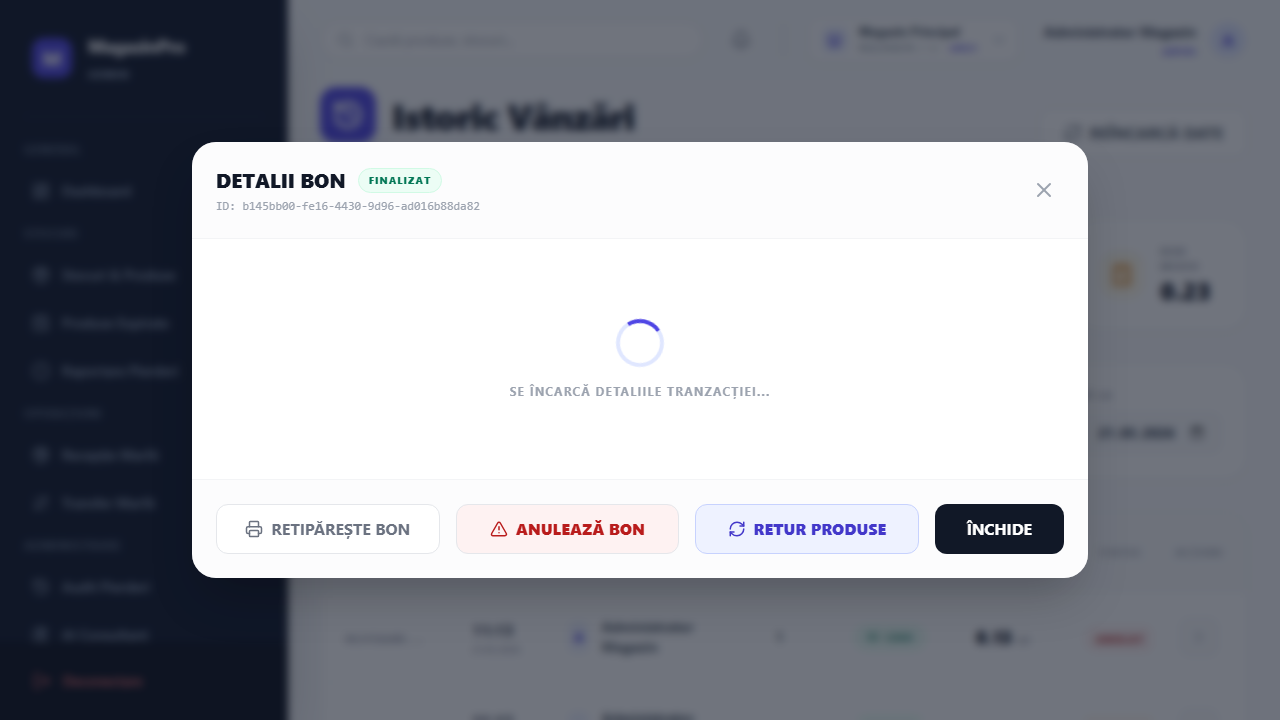
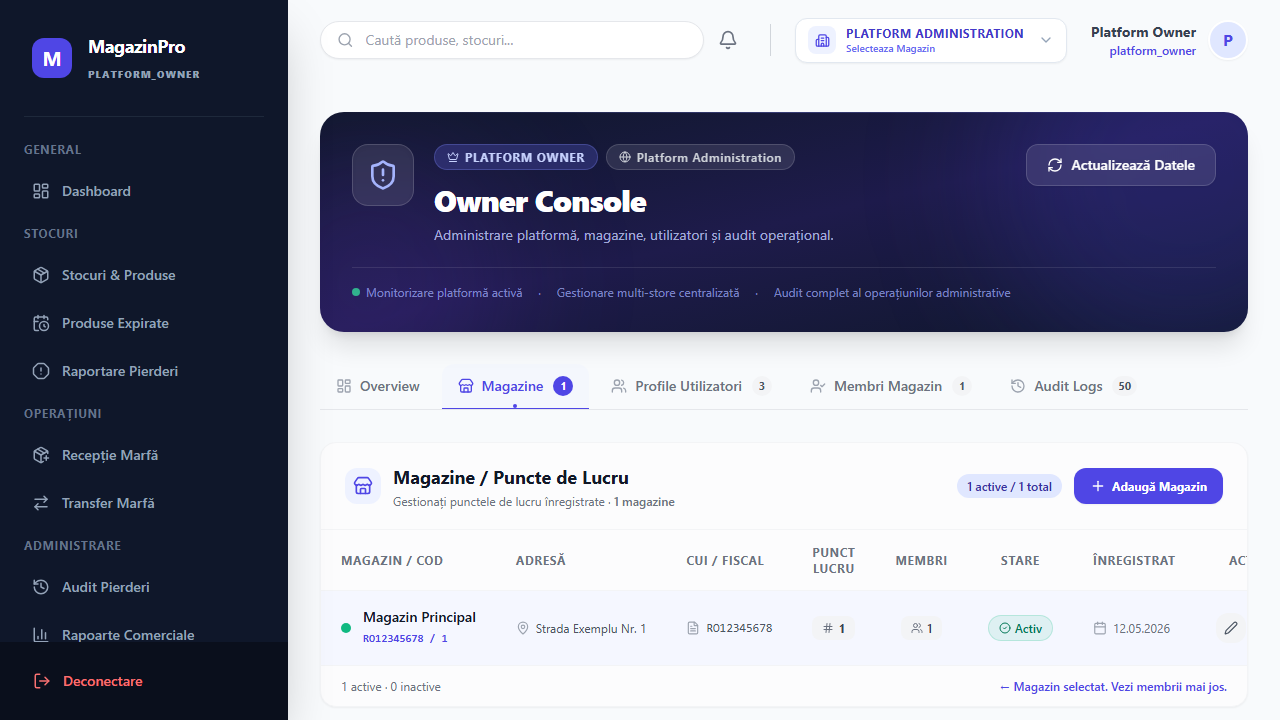
refactor: update Playwright selectors and implement StoresTable component for owner console

diff --git a/src/features/owner-console/components/StoresTable.tsx b/src/features/owner-console/components/StoresTable.tsx
@@ -58,7 +58,7 @@ export const StoresTable: React.FC<StoresTableProps> = ({
                 className="inline-flex items-center gap-1.5 px-4 py-2.5 bg-indigo-600 hover:bg-indigo-700 text-white text-xs font-bold rounded-xl shadow-sm hover:shadow-md transition-all focus:outline-none focus:ring-2 focus:ring-indigo-500 focus:ring-offset-2"
               >
                 <Plus className="w-4 h-4" aria-hidden="true" />
-                <span>Adaugă Magazin</span>
+                <span>Adaugă Magazin Nou</span>
               </button>
             )}
           </div>

diff --git a/test_owner_audit_logs_5e51.py b/test_owner_audit_logs_5e51.py
@@ -53,11 +53,11 @@ def run_test():
         
         # 2. TEST store.create audit
         print("\n--- 2. Test store.create audit ---")
-        page.locator("button:has-text('Magazine')").click()
-        page.locator("button:has-text('Adaugă Magazin Nou')").wait_for(state="visible", timeout=5000)
-        page.locator("button:has-text('Adaugă Magazin Nou')").click()
+        page.locator("#owner-tab-stores").click()
+        page.locator("button:has-text('Magazin Nou')").wait_for(state="visible", timeout=5000)
+        page.locator("button:has-text('Magazin Nou')").click()
         
-        modal_title = page.locator("h3:has-text('Adăugare Magazin Nou')")
+        modal_title = page.locator("h3:has-text('Magazin Nou')")
         modal_title.wait_for(state="visible", timeout=5000)
         
         page.locator("input[placeholder*='Magazin Central']").fill("Audit Test 55555555 Punct 951")
@@ -67,7 +67,7 @@ def run_test():
         page.locator("input[placeholder*='SC RETAIL PLUS']").fill("Audit Firma SRL")
         page.locator("textarea[placeholder*='Detalii interne']").fill("Test E2E 5E.5.1")
         
-        page.locator("button[type='submit']:has-text('Creează magazin')").click()
+        page.locator("button[type='submit']:has-text('magazin')").click()
         modal_title.wait_for(state="detached", timeout=5000)
         print("[PASS] Magazin creat din UI cu succes.")
         
@@ -76,7 +76,7 @@ def run_test():
         row951.wait_for(state="visible", timeout=5000)
         
         # Deschide tab Audit Logs
-        page.locator("button:has-text('Audit Logs')").click()
+        page.locator("#owner-tab-audit").click()
         page.wait_for_timeout(1000)
         
         # Cauta in tabel logul store.create
@@ -103,19 +103,19 @@ def run_test():
         
         # 3. TEST store.update audit
         print("\n--- 3. Test store.update audit ---")
-        page.locator("button:has-text('Magazine')").click()
-        row951.locator("button[title='Editează magazin']").click()
+        page.locator("#owner-tab-stores").click()
+        row951.locator("button[title^='Editeaz']").click()
         
         edit_title = page.locator("h3:has-text('Editare Magazin')")
         edit_title.wait_for(state="visible", timeout=5000)
         
         page.locator("input[placeholder*='Magazin Central']").fill("Audit Test 55555555 Punct 951 Editat")
         page.locator("input[placeholder*='Bulevardul Unirii']").fill("Strada Audit 951 Editată")
-        page.locator("button[type='submit']:has-text('Salvează modificările')").click()
+        page.locator("button[type='submit']:has-text('modific')").click()
         edit_title.wait_for(state="detached", timeout=5000)
         print("[PASS] Magazin editat din UI cu succes.")
         
-        page.locator("button:has-text('Audit Logs')").click()
+        page.locator("#owner-tab-audit").click()
         page.wait_for_timeout(1000)
         
         log_update = page.locator("tr", has=page.locator("text=Audit Test 55555555 Punct 951 Editat")).filter(has=page.locator("text=Editare Magazin"))
@@ -138,27 +138,27 @@ def run_test():
 
         # 4. TEST member.assign audit
         print("\n--- 4. Test member.assign audit ---")
-        page.locator("button:has-text('Profile Utilizatori')").click()
-        page.locator("h2:has-text('Profile Utilizatori Globale')").wait_for(state="visible", timeout=5000)
+        page.locator("#owner-tab-profiles").click()
+        page.locator("h2:has-text('Profile Utilizatori')").wait_for(state="visible", timeout=5000)
         
         row_user = page.locator("tr", has=page.locator("text=[email redacted]"))
         row_user.wait_for(state="visible", timeout=5000)
-        row_user.locator("button:has-text('Alocă la magazin')").click()
+        row_user.locator("button:has-text('Aloc')").click()
         
         assign_modal = page.locator("h3:has-text('Alocare Utilizator la Magazin')")
         assign_modal.wait_for(state="visible", timeout=5000)
         
-        store_select = page.locator("label:has-text('Selectează Magazin')").locator("..").locator("select")
+        store_select = page.locator("#assign-store-select")
         store_select.select_option(label="Audit Test 55555555 Punct 951 Editat")
         
-        role_select = page.locator("label:has-text('Rol în Magazin')").locator("..").locator("select")
+        role_select = page.locator("#assign-role-select")
         role_select.select_option("casier")
         
-        page.locator("button[type='submit']:has-text('Alocă Utilizator')").click()
+        page.locator("div[role='dialog'] button:has-text('Utilizator')").click()
         assign_modal.wait_for(state="detached", timeout=5000)
         print("[PASS] Utilizator alocat din UI cu succes.")
         
-        page.locator("button:has-text('Audit Logs')").click()
+        page.locator("#owner-tab-audit").click()
         page.wait_for_timeout(1000)
         
         log_assign = page.locator("tr", has=page.locator("text=Audit Test 55555555 Punct 951 Editat")).filter(has=page.locator("text=Alocare Membru"))
@@ -185,7 +185,7 @@ def run_test():
 
         # 5. TEST member.role_update audit
         print("\n--- 5. Test member.role_update audit ---")
-        page.locator("button:has-text('Membri Magazin')").click()
+        page.locator("#owner-tab-members").click()
         page.wait_for_timeout(1000)
         
         # Selectam magazinul in StoresTable din tab-ul Membri Magazin
@@ -200,7 +200,7 @@ def run_test():
         page.wait_for_timeout(1000)
         print("[PASS] Rol modificat din UI in manager.")
         
-        page.locator("button:has-text('Audit Logs')").click()
+        page.locator("#owner-tab-audit").click()
         page.wait_for_timeout(1000)
         
         log_role = page.locator("tr", has=page.locator("text=Audit Test 55555555 Punct 951 Editat")).filter(has=page.locator("text=Modificare Rol"))
@@ -221,7 +221,7 @@ def run_test():
 
         # 6. TEST member.active_update audit
         print("\n--- 6. Test member.active_update audit ---")
-        page.locator("button:has-text('Membri Magazin')").click()
+        page.locator("#owner-tab-members").click()
         page.wait_for_timeout(1000)
         
         member_row = page.locator("tr", has=page.locator("text=[email redacted]"))
@@ -237,7 +237,7 @@ def run_test():
         page.wait_for_timeout(1000)
         print("[PASS] Acces reactivat din UI.")
         
-        page.locator("button:has-text('Audit Logs')").click()
+        page.locator("#owner-tab-audit").click()
         page.wait_for_timeout(1000)
         
         log_active = page.locator("tr", has=page.locator("text=Audit Test 55555555 Punct 951 Editat")).filter(has=page.locator("text=Stare Membru")).first
@@ -272,7 +272,7 @@ def run_test():
         page.wait_for_timeout(500)
         
         # Test Action Filter
-        action_select = page.locator("select").filter(has_text="Toate Acțiunile")
+        action_select = page.locator("select").filter(has_text="Toate Ac")
         action_select.select_option("store.create")
         page.wait_for_timeout(500)
         
@@ -287,13 +287,13 @@ def run_test():
         page.wait_for_timeout(500)
         
         # Test Refresh
-        page.locator("button[title='Reîmprospătează audit logs']").click()
+        page.locator("button[title*='audit']").click()
         page.wait_for_timeout(1000)
         print("[PASS] Butonul Refresh functioneaza.")
         
         # Test Inspector Modal
-        log_create.locator("button:has-text('Inspectează')").click()
-        modal_inspect = page.locator("h3:has-text('Detalii Înregistrare Audit')")
+        log_create.locator("button:has-text('Inspect')").click()
+        modal_inspect = page.locator("h3:has-text('Detalii')")
         modal_inspect.wait_for(state="visible", timeout=5000)
         
         assert page.locator("h4:has-text('Date Anterioare (oldData)')").is_visible(), "oldData header lipseste"
@@ -307,7 +307,7 @@ def run_test():
         print("[PASS] Nicio data sensibila nu este expusa in modalul de inspectie.")
         
         # Inchide modalul
-        page.locator("button:has-text('Închide Inspector')").click()
+        page.locator("button:has-text('chide')").click()
         modal_inspect.wait_for(state="detached", timeout=5000)
         print("[PASS] Modalul Inspector s-a inchis cu succes.")
         

diff --git a/test_store_management_5e41.py b/test_store_management_5e41.py
@@ -55,12 +55,16 @@ def run_test():
         
         # Deschide tab Magazine
         print("\n--- 3. Test creare magazin (12345678 / 901) ---")
-        page.locator("button:has-text('Magazine')").click()
-        page.locator("button:has-text('Adaugă Magazin Nou')").wait_for(state="visible", timeout=5000)
+        try:
+            page.locator("#owner-tab-stores").click()
+            page.locator("button:has-text('Magazin Nou')").wait_for(state="visible", timeout=5000)
+        except Exception as e:
+            page.screenshot(path="screenshot_error.png")
+            raise e
         
         # Click Adauga magazin
-        page.locator("button:has-text('Adaugă Magazin Nou')").click()
-        modal_title = page.locator("h3:has-text('Adăugare Magazin Nou')")
+        page.locator("button:has-text('Magazin Nou')").click()
+        modal_title = page.locator("h3:has-text('Magazin Nou')")
         modal_title.wait_for(state="visible", timeout=5000)
         
         # Completeaza formularul
@@ -76,7 +80,7 @@ def run_test():
         print("[PASS] Preview-ul afiseaza corect: 12345678 / 901")
         
         # Salveaza
-        page.locator("button[type='submit']:has-text('Creează magazin')").click()
+        page.locator("button[type='submit']:has-text('magazin')").click()
         modal_title.wait_for(state="detached", timeout=5000)
         print("[PASS] Modalul s-a inchis cu succes dupa creare.")
         
@@ -101,7 +105,7 @@ def run_test():
         
         # --- 4. TEST EDITARE MAGAZIN ---
         print("\n--- 4. Test editare magazin ---")
-        row901.locator("button[title='Editează magazin']").click()
+        row901.locator("button[title^='Editeaz']").click()
         edit_title = page.locator("h3:has-text('Editare Magazin')")
         edit_title.wait_for(state="visible", timeout=5000)
         
@@ -109,7 +113,7 @@ def run_test():
         page.locator("input[placeholder*='Bulevardul Unirii']").fill("Strada Test 901 Editată")
         page.locator("textarea[placeholder*='Detalii interne']").fill("Test E2E 5E.4.1 editat")
         
-        page.locator("button[type='submit']:has-text('Salvează modificările')").click()
+        page.locator("button[type='submit']:has-text('modific')").click()
         edit_title.wait_for(state="detached", timeout=5000)
         print("[PASS] Modalul s-a inchis cu succes dupa editare.")
         
@@ -131,16 +135,16 @@ def run_test():
         
         # --- 5. TEST DUPLICAT CUI + PUNCT LUCRU ---
         print("\n--- 5. Test duplicat CUI + punct lucru ---")
-        page.locator("button:has-text('Adaugă Magazin Nou')").click()
+        page.locator("button:has-text('Magazin Nou')").click()
         modal_title.wait_for(state="visible", timeout=5000)
         
         page.locator("input[placeholder*='Magazin Central']").fill("Magazin Duplicat 901")
         page.locator("input[placeholder*='RO12345678']").fill("12345678")
         page.locator("input[placeholder*='ex: 1']").fill("901")
-        page.locator("button[type='submit']:has-text('Creează magazin')").click()
+        page.locator("button[type='submit']:has-text('magazin')").click()
         
         # Verifică mesajul de eroare
-        err_msg = page.locator("text=Există deja un magazin pentru acest CUI și punct de lucru.").first
+        err_msg = page.locator("text=deja un magazin").first
         err_msg.wait_for(state="visible", timeout=5000)
         print("[PASS] Eroarea de duplicat a fost afisata corect in UI.")
         
@@ -160,13 +164,13 @@ def run_test():
         
         # --- 6. TEST PUNCT DE LUCRU DIFERIT ACELASI CUI (902) ---
         print("\n--- 6. Test punct de lucru diferit acelasi CUI (902) ---")
-        page.locator("button:has-text('Adaugă Magazin Nou')").click()
+        page.locator("button:has-text('Magazin Nou')").click()
         modal_title.wait_for(state="visible", timeout=5000)
         
         page.locator("input[placeholder*='Magazin Central']").fill("Magazin Test 12345678 Punct 902")
         page.locator("input[placeholder*='RO12345678']").fill("12345678")
         page.locator("input[placeholder*='ex: 1']").fill("902")
-        page.locator("button[type='submit']:has-text('Creează magazin')").click()
+        page.locator("button[type='submit']:has-text('magazin')").click()
         modal_title.wait_for(state="detached", timeout=5000)
         print("[PASS] Magazinul 12345678 / 902 creat cu succes din UI.")
         
@@ -186,23 +190,23 @@ def run_test():
         
         # --- 7. TEST ALOCARE USER LA MAGAZIN NOU ---
         print("\n--- 7. Test alocare user la magazin nou ([email redacted] -> 902) ---")
-        page.locator("button:has-text('Profile Utilizatori')").click()
-        page.locator("h2:has-text('Profile Utilizatori Globale')").wait_for(state="visible", timeout=5000)
+        page.locator("#owner-tab-profiles").click()
+        page.locator("h2:has-text('Profile Utilizatori')").wait_for(state="visible", timeout=5000)
         
         row_user = page.locator("tr", has=page.locator("text=[email redacted]"))
         row_user.wait_for(state="visible", timeout=5000)
-        row_user.locator("button:has-text('Alocă la magazin')").click()
+        row_user.locator("button:has-text('Aloc')").click()
         
         assign_modal = page.locator("h3:has-text('Alocare Utilizator la Magazin')")
         assign_modal.wait_for(state="visible", timeout=5000)
         
-        store_select = page.locator("label:has-text('Selectează Magazin')").locator("..").locator("select")
+        store_select = page.locator("#assign-store-select")
         store_select.select_option(label="Magazin Test 12345678 Punct 902")
         
-        role_select = page.locator("label:has-text('Rol în Magazin')").locator("..").locator("select")
+        role_select = page.locator("#assign-role-select")
         role_select.select_option("manager")
         
-        page.locator("button[type='submit']:has-text('Alocă Utilizator')").click()
+        page.locator("div[role='dialog'] button:has-text('Utilizator')").click()
         assign_modal.wait_for(state="detached", timeout=5000)
         print("[PASS] Alocarea utilizatorului efectuata din UI.")
         page.wait_for_timeout(1000)
@@ -222,12 +226,13 @@ def run_test():
         # --- 8. TEST LOGIN [email redacted] ---
         print("\n--- 8. Test login [email redacted] ---")
         page.locator("button:has-text('Deconectare')").click()
-        page.wait_for_load_state("networkidle")
-        page.locator("input[type='text']").wait_for(state="visible", timeout=10000)
+        page.wait_for_url("**/login", timeout=10000)
+        email_input = page.locator("input[placeholder*='email']")
+        email_input.wait_for(state="visible", timeout=10000)
         
         try:
             print("Incercare login [email redacted] cu admin123 ...")
-            page.locator("input[type='text']").fill("[email redacted]")
+            email_input.fill("[email redacted]")
             page.locator("input[type='password']").fill("admin123")
             page.locator("button[type='submit']").click()
             
@@ -235,7 +240,7 @@ def run_test():
             print("[PASS] Login reusit ca [email redacted].")
             
             # Verificam daca exista selector de magazin
-            has_switcher = page.locator("select, button:has-text('Schimbă magazin')").count() > 0
+            has_switcher = page.locator("select, button:has-text('Schimb')").count() > 0
             if has_switcher:
                 print("[PASS] Selectorul de magazin este disponibil.")
             else:

diff --git a/test_owner_assignment_5e31.py b/test_owner_assignment_5e31.py
@@ -50,13 +50,13 @@ def run_test():
         print(f"[PASS] Cleanup complete. Initial profiles.role for [email redacted] is: {initial_role}")
         
         # Verify unassigned profiles panel is loaded in Overview tab
-        page.locator("h3:has-text('Utilizatori Nealocați (Fără Magazin)')").wait_for(state="visible", timeout=10000)
+        page.locator("h3:has-text('Nealocați')").wait_for(state="visible", timeout=10000)
         print("[PASS] Unassigned profiles panel is visible.")
         
         # Switch to "Profile Utilizatori" tab
         print("3. Switching to Profile Utilizatori tab...")
-        page.locator("button:has-text('Profile Utilizatori')").click()
-        page.locator("h2:has-text('Profile Utilizatori Globale')").wait_for(state="visible", timeout=5000)
+        page.locator("#owner-tab-profiles").click()
+        page.locator("h2:has-text('Profile Utilizatori')").wait_for(state="visible", timeout=5000)
         
         # Find [email redacted]
         print("4. Locating [email redacted] in table...")
@@ -64,7 +64,7 @@ def run_test():
         row.wait_for(state="visible", timeout=5000)
         
         print("5. Clicking Aloca la magazin button...")
-        row.locator("button:has-text('Alocă la magazin')").click()
+        row.locator("button:has-text('Aloc')").click()
         
         # Wait for modal
         modal_header = page.locator("h3:has-text('Alocare Utilizator la Magazin')")
@@ -73,16 +73,16 @@ def run_test():
         
         print("6. Selecting store and role in modal...")
         # Select magazin
-        store_select = page.locator("label:has-text('Selectează Magazin')").locator("..").locator("select")
+        store_select = page.locator("#assign-store-select")
         store_select.select_option(label="Magazin Principal")
         
         # Select rol
-        role_select = page.locator("label:has-text('Rol în Magazin')").locator("..").locator("select")
+        role_select = page.locator("#assign-role-select")
         role_select.select_option("manager")
         
         # Click Alocă Utilizator (submit button in modal)
         print("7. Submitting assignment...")
-        page.locator("button[type='submit']:has-text('Alocă Utilizator')").click()
+        page.locator("div[role='dialog'] button:has-text('Utilizator')").click()
         
         # Wait for modal to close
         modal_header.wait_for(state="detached", timeout=5000)
@@ -91,7 +91,7 @@ def run_test():
         
         # Switch to "Membri Magazin" tab to verify
         print("8. Verifying assigned user in Membri Magazin tab...")
-        page.locator("button:has-text('Membri Magazin')").click()
+        page.locator("#owner-tab-members").click()
         page.locator("h2:has-text('Membri Magazin')").wait_for(state="visible", timeout=5000)
         
         # Selectam magazinul in StoresTable din stanga pentru a-i afisa membrii
@@ -103,7 +103,7 @@ def run_test():
         
         # Verify in Overview tab that user is no longer unassigned
         print("9. Verifying user is removed from unassigned list...")
-        page.locator("button:has-text('Overview')").click()
+        page.locator("#owner-tab-overview").click()
         page.locator("text=[email redacted]").wait_for(state="detached", timeout=5000)
         print("[PASS] [email redacted] is no longer in unassigned list.")
         page.wait_for_timeout(1000)

diff --git a/test_store_context_switcher_5e43.py b/test_store_context_switcher_5e43.py
@@ -171,7 +171,7 @@ def run_test():
         page3.locator("input[type='password']").fill("admin123")
         page3.locator("button[type='submit']").click()
         
-        page3.locator("span:has-text('Platform Administration')").wait_for(state="visible", timeout=15000)
+        page3.locator("span:has-text('Platform Administration')").first.wait_for(state="visible", timeout=15000)
         print("[PASS] platform_owner vede corect badge-ul 'Platform Administration' si navigheaza normal in sistem.")
         context3.close()
         